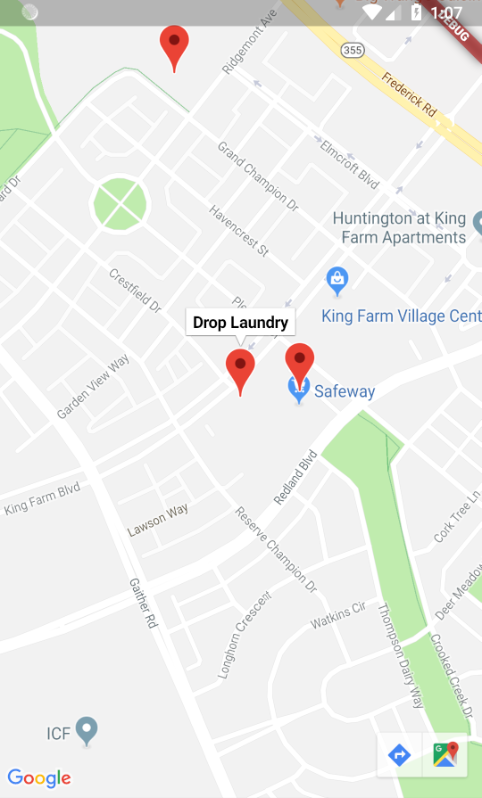
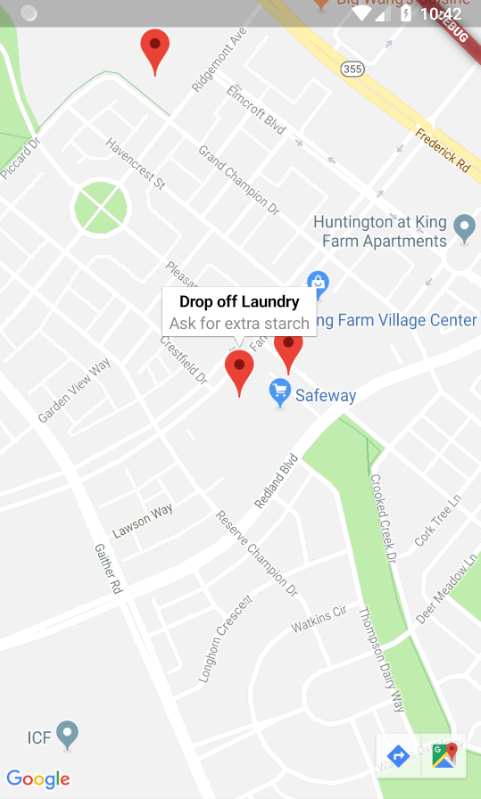
updated map part with subtitles

diff --git a/tutorials/flutter_maps_and_location.md b/tutorials/flutter_maps_and_location.md
@@ -18,7 +18,7 @@ At this point we have a fully functional task application that has some of our b
 ## Adding Your API Key
 Currently, Rapido supports Google Maps by wrapping and simplifying the Google Maps Flutter Plugin. In order to use the location and mapping functionality, you will need to supply your own API key. This involves signing up for an API key from Google, and then adding the key to your AndroidManifest.xml file and your AppleDelegate.m file.
 
-See the (Google Maps Flutter Plugin)[https://pub.dartlang.org/packages/google_maps_flutter#-readme-tab-] for the detailed instructions. 
+See the [Google Maps Flutter Plugin](https://pub.dartlang.org/packages/google_maps_flutter#-readme-tab-) for the detailed instructions. 
 
 ## Adding a Map Point Field
 In [part 1](flutter_app_in_few_lines.md) we defined the labels and by extension the fields, that we expect to include in the UI for Document. We will revisit that by adding a "map-point" field to each Document:
@@ -97,10 +97,10 @@ Then we change the onPressed event for the button to call that function instead:
 Now when the button is pressed, it displays a map with the Documents:  
 ![map with docs](../assets/map-with-docs.png)
 
-It also shows the titles if you click on pins:  
+It also shows the titles and subtitles if you click on pins:  
 ![map with title](../assets/map-with-title.png)
 
-This works because of the semantic meaning of "title" in the Document's fields.
+This works because of the semantic meaning of "title" and "subtitle" in the Document's fields.
 
 # Summary
 This section showed how to add maps and location to your application. It showed, on the way, how to use the additionalActions property of the [DocumentListScaffold](https://pub.dartlang.org/documentation/rapido/latest/documents/DocumentListScaffold-class.html) to add functionality to your application.
